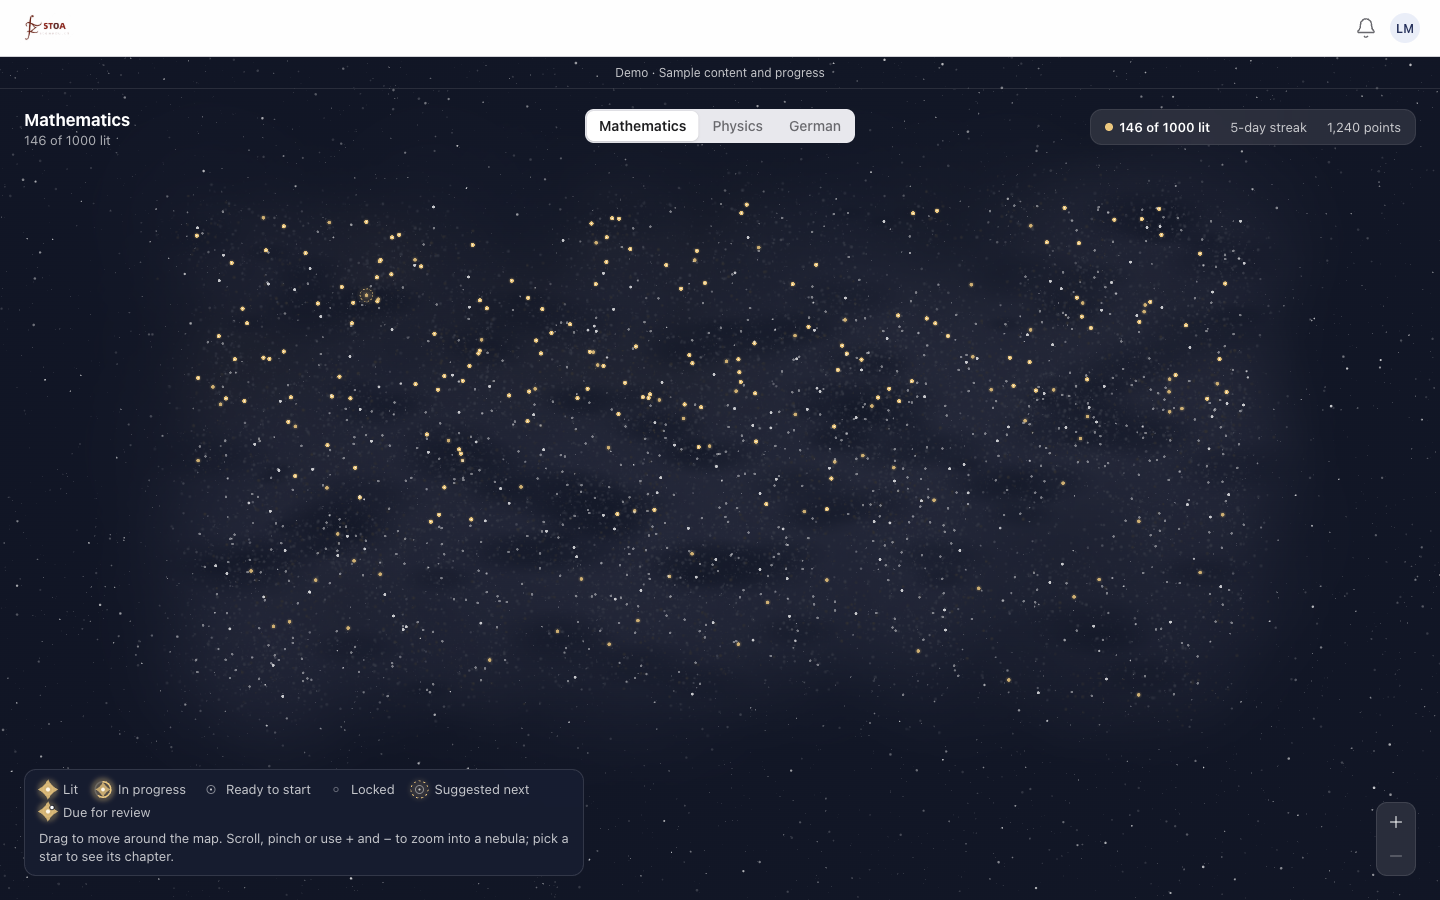
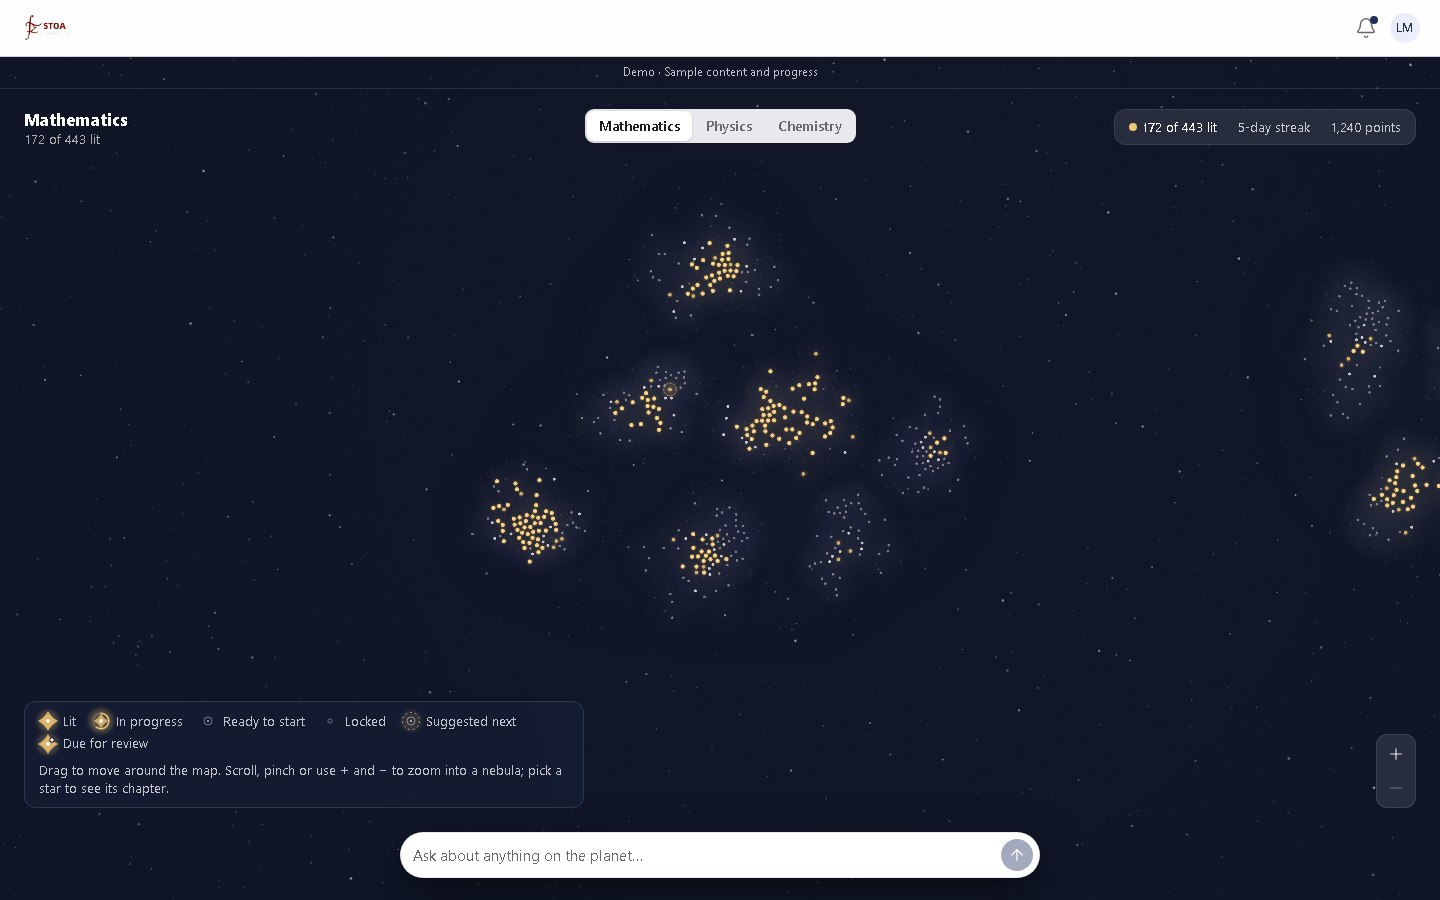
Describe the one-sky star map and its frame times (#119)
starmap-demo.md now explains the galaxy, nebula and star layout, how
the clouds are painted and dimmed, the switcher flight, the header that
follows the centred galaxy, and the before/after frame times; its two
pictures are the after-119 panorama at 1000 stars.

diff --git a/docs/agents/starmap-demo.md b/docs/agents/starmap-demo.md
@@ -1,58 +1,98 @@
-# 漫天知识星空演示（#48 / #109 / #76）
+# 一片天空的星图演示（#119；前身 #48 / #109 / #76 / #110）
 
-默认整片天空 **1000 颗星 / 3 个学科（星系）/ 16 团星云**（#116 演示数据集，见下文「数据与交互」）；当前渲染器仍一次只画一个学科，数学约 440 颗、物理约 310 颗、化学约 240 颗。知识星铺在整个二维视野中，宽阔的高密度区域与分散星点相融，亮雾带有不规则暗纹。上下和四角保留星光，没有独立圆形光团或窄带轮廓。
+星图是**一片天空**（ADR 0001）：所有学科都在里面，每个学科是一个**星系**，星系由该学科的**星云**组成，星云里的每颗**星**是一个知识点。默认整片天空 **1000 颗星 / 3 个星系 / 16 团星云**（#116 演示数据集）：数学约 440 颗、物理约 310 颗、化学（没修）约 240 颗。
 
-视觉参考：[ESO 银河中心宽视野照片](https://www.eso.org/public/images/eso0949l/)。仅借鉴细密星光、亮云和暗尘的层次；不复制全景照片上下大片黑色的构图。场景采用原生 Canvas，照片只用于本地验收页的对照。
+#110 的星光质感（细密星点、星尘、亮雾，全景知识星 1.15–2.1 px）第一轮验收通过并保留；它「铺满一块」的布局（`demoGalaxyPositions`）第一轮被推翻，#119 已删除，换成下文的星系 → 星云布局。
+
+视觉参考：[ESO 银河中心宽视野照片](https://www.eso.org/public/images/eso0949l/)，只借鉴细密星光、亮云与暗尘的层次；本轮重点是成团。场景用原生 Canvas。
 
 ## 本地预览
 
-启动：`npm run dev -- --host 127.0.0.1 --port 5184`。
-打开 `/src/dev/starmap.html?host=ask&path=/map/math`，无须登录或后端。`host=ask` 复用布局模拟器，不挂实际 Ask，不请求课程数据；布局中的通知组件仍可能尝试请求本地后端。
+看设计用 #115 的免后端预览（见 `docs/agents/design-preview.md`）：
 
-- `&points=500` / `&points=2000` 比较密度，`points=10` 用于小夹具调试。
-- 默认关闭模糊聚合；`&foveation=on` 可比较聚合效果，`?bench=1` 仍默认开启聚合。
-- `&relations=fixture` 显示固定的前置关系；`&longNames=1` 检查四语长名称。这两个选项仅由独立开发 host 的 props 注入，正式路由不会从查询参数启用假关系。
-- `.codex-screenshots/starmap-visual/index.html` 是被 Git 忽略的本地验收页，有 10 / 500 / 2000 × 桌面 1440×900 / 手机 390×844 的同夹具前后对照（均开启聚合）。默认 1000 的示例关闭聚合。
+```bash
+npm run dev -- --host 127.0.0.1 --port 5173
+```
+
+- `/src/dev/preview.html?surface=map&points=1000`（全景）、`surface=map-nebula`（三角函数星云）、`surface=map-star`（演示知识点）；`points=10|1000|2000`。
+- 任意路由：`/src/dev/preview.html?path=/map/physics?points=2000`；`/map/chemistry` 看没修的星系。
+- 截图对照：`npm run design-preview:capture -- --base http://127.0.0.1:5173 --label <集>`，再开 `/src/dev/preview-compare.html?mode=shots&surface=map&before=before-119&after=after-119`。
+
+计帧台架仍是 `/src/dev/starmap.html?host=ask&path=/map/math&points=2000&bench=1`（#44 的面板；它没接预览的拦截层，通知组件会请求本地后端）。`&foveation=on|off`、`&relations=fixture`（显示整片天空的前置，含跨学科）、`&longNames=1` 同前。
 
 ## 默认画面
 
-桌面 1440×900 与手机视口 390×844，均为 1000 颗知识星、关闭模糊聚合。
+桌面 1440×900 与手机 390×844，1000 颗星，全景层停在数学星系。
 
 ![桌面默认星图](starmap-demo-visual/desktop-1000.png)
 
 ![手机视口默认星图](starmap-demo-visual/mobile-1000.png)
 
-## 数据与交互
+## 布局：星系 → 星云 → 星（`layout/layout.ts` 的 `layoutSky`）
 
-- 数据来自 `src/features/starmap/fixtures/demoSky.ts`（#116）：一片天空装下数学、物理（在修）与化学（没修，无学生证据），各分若干星云，每团星云的点亮比例从 0 到约 85% 不等。名称四语写在 `demo-sky.json`，不进 locale 包。
-- 只有一颗**演示知识点**（数学·三角函数「正弦与余弦」）有完整章节，星卡片可进入章节；其余都是**占位星**：有名字、学习状态、推荐 / 待复习 / 技能点，星卡片写明「占位星 · 演示内容，无章节」。**星尘**是 `render/galaxy.ts` 画的装饰，不是数据。
-- 前置关系含跨学科一条以上（物理光学 ← 数学三角函数；「折射」唯一未点亮的前置就是演示知识点），学习状态与前置一致（可开始的前置全部点亮，锁定的至少一条未点亮）。默认不画线；`&relations=fixture` 只画本学科内的线。章节、Ask、/me、通知的演示数据在 `src/dev/demo/data`（只供本地预览）。
-- 拖动、缩放、点进主题与星卡片可用。全景按最近真实知识星判断主题，避免主题的包围圆重叠导致误选。
-- 全景主题名只在悬停或键盘聚焦时出现；没有安全位置则隐藏，完整名称始终保留在并行 DOM，键盘焦点用按实际宽高放置的名称框。德 / 英 / 法 / 意 × 桌面 / 手机的 8 组长名称焦点框都在可见区域内。
-- 默认打开在修的第一个学科；上次学科按账号保存在本地。
+- **环带**：所有星系沿 x 依次排在一条水平带上，x ∈ [0, 1]，带子居中于 y = 0.5，坐标保持等比。带子两端各留半个间隙，#120 做左右循环（x mod 1）时接缝处就是又一道同样宽的间隙。
+- **星系顺序**：`galaxyOrder` 从第一个学科起，每次把与上一个跨学科前置最多的学科排在旁边——演示数据里是数学 · 物理 · 化学（物理光学以数学三角函数为前置）。循环后最后一个也成了第一个的邻居。
+- **星系之间**：间隙为最高星系高度的 0.6 倍，远宽于同一星系里星云之间的暗空（测试锁定：每团星云的最近邻都不到最窄星系间隙的一半）。
+- **星系内部**：星云先按前置关系排（`layoutNebulae`，相关主题靠近），半径只随星数变化（整片天空同一密度），再向星系中心收拢（上下拉得更紧，所以星系顺着带子横躺），直到圆盘相切、互不重叠。
+- **星云内部**（`cloudStars`）：不是均匀圆盘，而是一个主团加 1–3 个小团的高斯云，按种子压扁、旋转，所以每团形状不同；核心最密、向外渐疏（半径一半以内的星约占一半，均匀圆盘只有四分之一）；最小间距 0.35 倍典型间距，不碰撞也不成格子。`order` 小的星靠近核心并略加混合，所以一团星云从核心开始被点亮。
+- 一个种子管所有星数：10 / 500 / 1000 / 2000 档的星系和星云位置不变，只是星的多少不同。
 
-## 绘制与验证
+## 画法（`render/galaxy.ts`、`render/canvas2d.ts`）
 
-- `demoGalaxyPositions` 是演示布局，保持 ID、主题归属与状态不变，知识星在整个二维视野采样，主题仅用于逻辑归属，不形成独立光团；星尘与蓝紫 / 暖金辉光按实际知识星坐标缓存，和知识星一起拖动、缩放、转为手机纵向布局。
-- 全景知识星为 1.15–2.1 px，放大后 glyph 上限 40 px。装饰星尘不计入学习数据或点击目标。
-- 标签整框必须更近所属主题并避开语义连线。短间隙为弧形桥，放大后屏外关联目标有方向与名称。
-- 模糊图块使用 64 / 128 / 256 分辨率缓存，缩小保留高分辨率；任何星状态变化都使所属图块失效。辉光在坐标或颜色状态变化时重画，不逐帧生成。缓存画布四边各留 128 px，云层在地图边缘自然消退，不产生矩形裁切。
-- 知识辉光透明度上限 0.14，视野微光上限 0.04；以白色星尘饱和叠加作为对比度上界，对比度测试仍要求文字 4.5:1、锁定控件与语义连线 3:1。锁定环保留 42%；未改变锁定状态的图形语义。
-- 全量 2032 项测试、lint、typecheck、API 契约（213 后端路径 / 162 调用）、翻译守卫、CSS 与 Canvas 对比度、release 54 项、publisher 4 项、生产 build 通过。
+- **天空底**：平涂 + 微光 + 稀疏星尘（比 #110 稀，让星云之间留暗空）。
+- **星系底色**：每个星系一张缓存的雾（宽 1024 px），用该星系的基色调（蓝紫 → 银 → 暖金之间按带子位置分配），透明度 0.04。
+- **星云**：每团一张缓存图块（64 / 128 / 256 / 512 档，缩小保留高分辨率），由本团的星画成：每颗星一个柔和的本团色调印记，叠出亮而密的核心、边缘化进暗空；点亮与进行中的星再印一层暖金，点亮越多核心越暖；几道暗纹打破圆团；再加跟随星密度的细颗粒（#110 的星尘质感）。整团透明度 = 0.10 + 0.06 × 点亮比例，所以**点亮比例越高整团越亮**。
+- **色调**：每团在所属星系基色附近 ±0.15 取自己的色调，只在蓝紫—银—暖金之间，不用彩虹色。
+- **没修的学科**：星系雾、星云、星点都乘 0.4。
+- **全景状态**：全景只要认得出「点亮」（暖金点、发光）与「推荐」（每个在修学科一颗，任何缩放都画成完整星形，所在星系在中心时它呼吸）。四种学习状态在星云层用完整 glyph 区分：打开星云时至少放大到 28 px 的 glyph（按最近邻间距算，云核再密也不重叠）。
+- **连线**：全景不画；星云层、星层照旧（分层与明暗是 #121）。
+- **缓存**：缩放不变的第二帧起，星系雾与所有星云合成一张比视口四边各大 25% 的图，拖动、惯性、呼吸只移动这张图；换缩放、星状态变化或拖出边距时重画。图块只在本团星状态变化时重画。
 
-真实内容仍等待 stoa-backend#59（#56/#57/#60），接入点为 `useStarMap.ts`。本演示不验证后端响应契约，不作为 #48 的真实数据验收。用户视觉验收和真实 iOS/Android 性能验收尚未完成，不能据此关闭 #109 / #76 / #44。
+## 相机与交互
 
-## 本轮性能对照
+- **全景层 = 对准一个星系的窗口**，不是整条带子：最高星系占控件之间高度的 80%；手机至少看到最宽星系的约 77%（不转成竖条，是同一布局的更窄窗口）。所有星系同一缩放。
+- **学科切换器 = 飞到那个星系**：同一片天空不重建，只做一次约 0.75 秒的飞行（d3-zoom 式先拉远再推近）；其它星系留在原处。
+- **标题与「已点亮 N 颗」跟随视野中心的星系**：拖到别的星系、停下后，路由就地换成 `/map/<该学科>`（replace，不进历史），标题、计数、切换器高亮和「上次学科」随之更新。
+- **路由**：`/map/:subjectId` 仍可用，含义变为「聚焦该星系」；星云与星的链接挂在它们自己星系的学科下（`/map/physics/optics/...`），跨学科前置的链接也是。路由结构本身不改（#3）。
+- 键盘：全景 Tab 按带子顺序逐团星云（再加屏上的推荐星）；聚焦一团星云时地图平移到它。并行 DOM 列出屏上所有星。
 
-Chrome，390×844 @1x，120 Hz；每组拖动 10 秒。基线为本次视觉修改前的 #48 分团演示。
+## 数据
 
-| 星数 | 聚合 | 基线 p95 ms | 本版 p95 ms | 本版慢帧 |
+- 唯一的星图数据是 `src/features/starmap/fixtures/demoSky.ts`（#116）。`demoStarMap(subjectId)` 把整片天空交给渲染器，`subject` 只是聚焦的星系、`summary` 是它的点亮数；无论聚焦哪个星系，星与星云数组是同一份（切换器飞行时不重画）。
+- 渲染器单测、台架、预览都读它；#110 以前的数学单学科夹具（`starMapFixture`、`map-10.json`、`nebula-names.json`）与 `demoGalaxyPositions` 已删除。测试用 `tests/component/starmapHarness.ts` 的 `skyMap(size, subjectId)`。
+- 只有一颗**演示知识点**（数学 · 三角函数「正弦与余弦」）有章节；其余是**占位星**；**星尘**是装饰，不是数据。
+
+## 验证
+
+- 对比度：最亮处取「星系雾 + 满点亮星云核心」按白色叠加（0.04 + 0.10 + 0.06 = 0.20），文字 4.5:1、锁定环与连线 3:1 仍过（`starmapContrast`）；星云圆盘互不重叠，邻团的光到不了核心（`starmapLayout` 锁定）。
+- 全量测试、lint、typecheck、翻译守卫、对比度、release、publisher、生产 build 通过。
+
+## 本轮性能对照（#119）
+
+计帧台架（#44 面板），390×844 @1x，每组拖动 10 秒，同一台机器、同一脚本先测改前（e0722ef）再测改后。
+
+**有 GPU 的 Chrome（有界面窗口，屏幕 240 Hz）**：改前改后都锁在刷新率上，看不出差别。
+
+| 星数 | 聚合 | 改前 p95 ms | 改后 p95 ms | 改后慢帧 |
 | --- | --- | --- | --- | --- |
-| 500 | on | 9.3 | 9.2 | 0.00% |
-| 1000 | on | 8.9 | 9.3 | 0.00% |
-| 2000 | on | 8.8 | 9.1 | 0.00% |
-| 500 | off | 8.7 | 9.1 | 0.08% |
-| 1000 | off | 8.6 | 8.9 | 0.00% |
-| 2000 | off | 9.7 | 8.9 | 0.00% |
+| 500 | on | 4.4 | 4.6 | 0% |
+| 1000 | on | 4.4 | 4.3 | 0% |
+| 2000 | on | 4.4 | 4.5 | 0% |
+| 500 | off | 4.4 | 4.5 | 0% |
+| 1000 | off | 4.6 | 4.4 | 0% |
+| 2000 | off | 4.5 | 4.6 | 0% |
 
-六组均在原有帧预算内。本机浏览器模拟不作为物理手机或生产运行证据。
+**无界面 Chromium、关闭垂直同步（软件光栅，量的是每帧真实开销）**：改后更贵，但都远低于 60 fps 的 16.7 ms。
+
+| 星数 | 聚合 | 改前 p95 ms | 改后 p95 ms |
+| --- | --- | --- | --- |
+| 500 | on | 1.7 | 3.3 |
+| 1000 | on | 2.4 | 3.8 |
+| 2000 | on | 3.6 | 4.9 |
+| 500 | off | 2.7 | 2.8 |
+| 1000 | off | 3.0 | 3.4 |
+| 2000 | off | 2.9 | 5.6 |
+
+多出的开销来自屏上的星系雾与星云光（已合成一张缓存图）和同屏更多的星点。#110 记的读数（120 Hz、p95 约 9 ms）是另一台屏幕，不能直接相减。本机浏览器模拟不是物理手机证据，#44 的真机验收仍未做。
+
+真实内容仍等待 stoa-backend#59（#56/#57/#60）；后端如何按一片天空出图在 #3 定。
